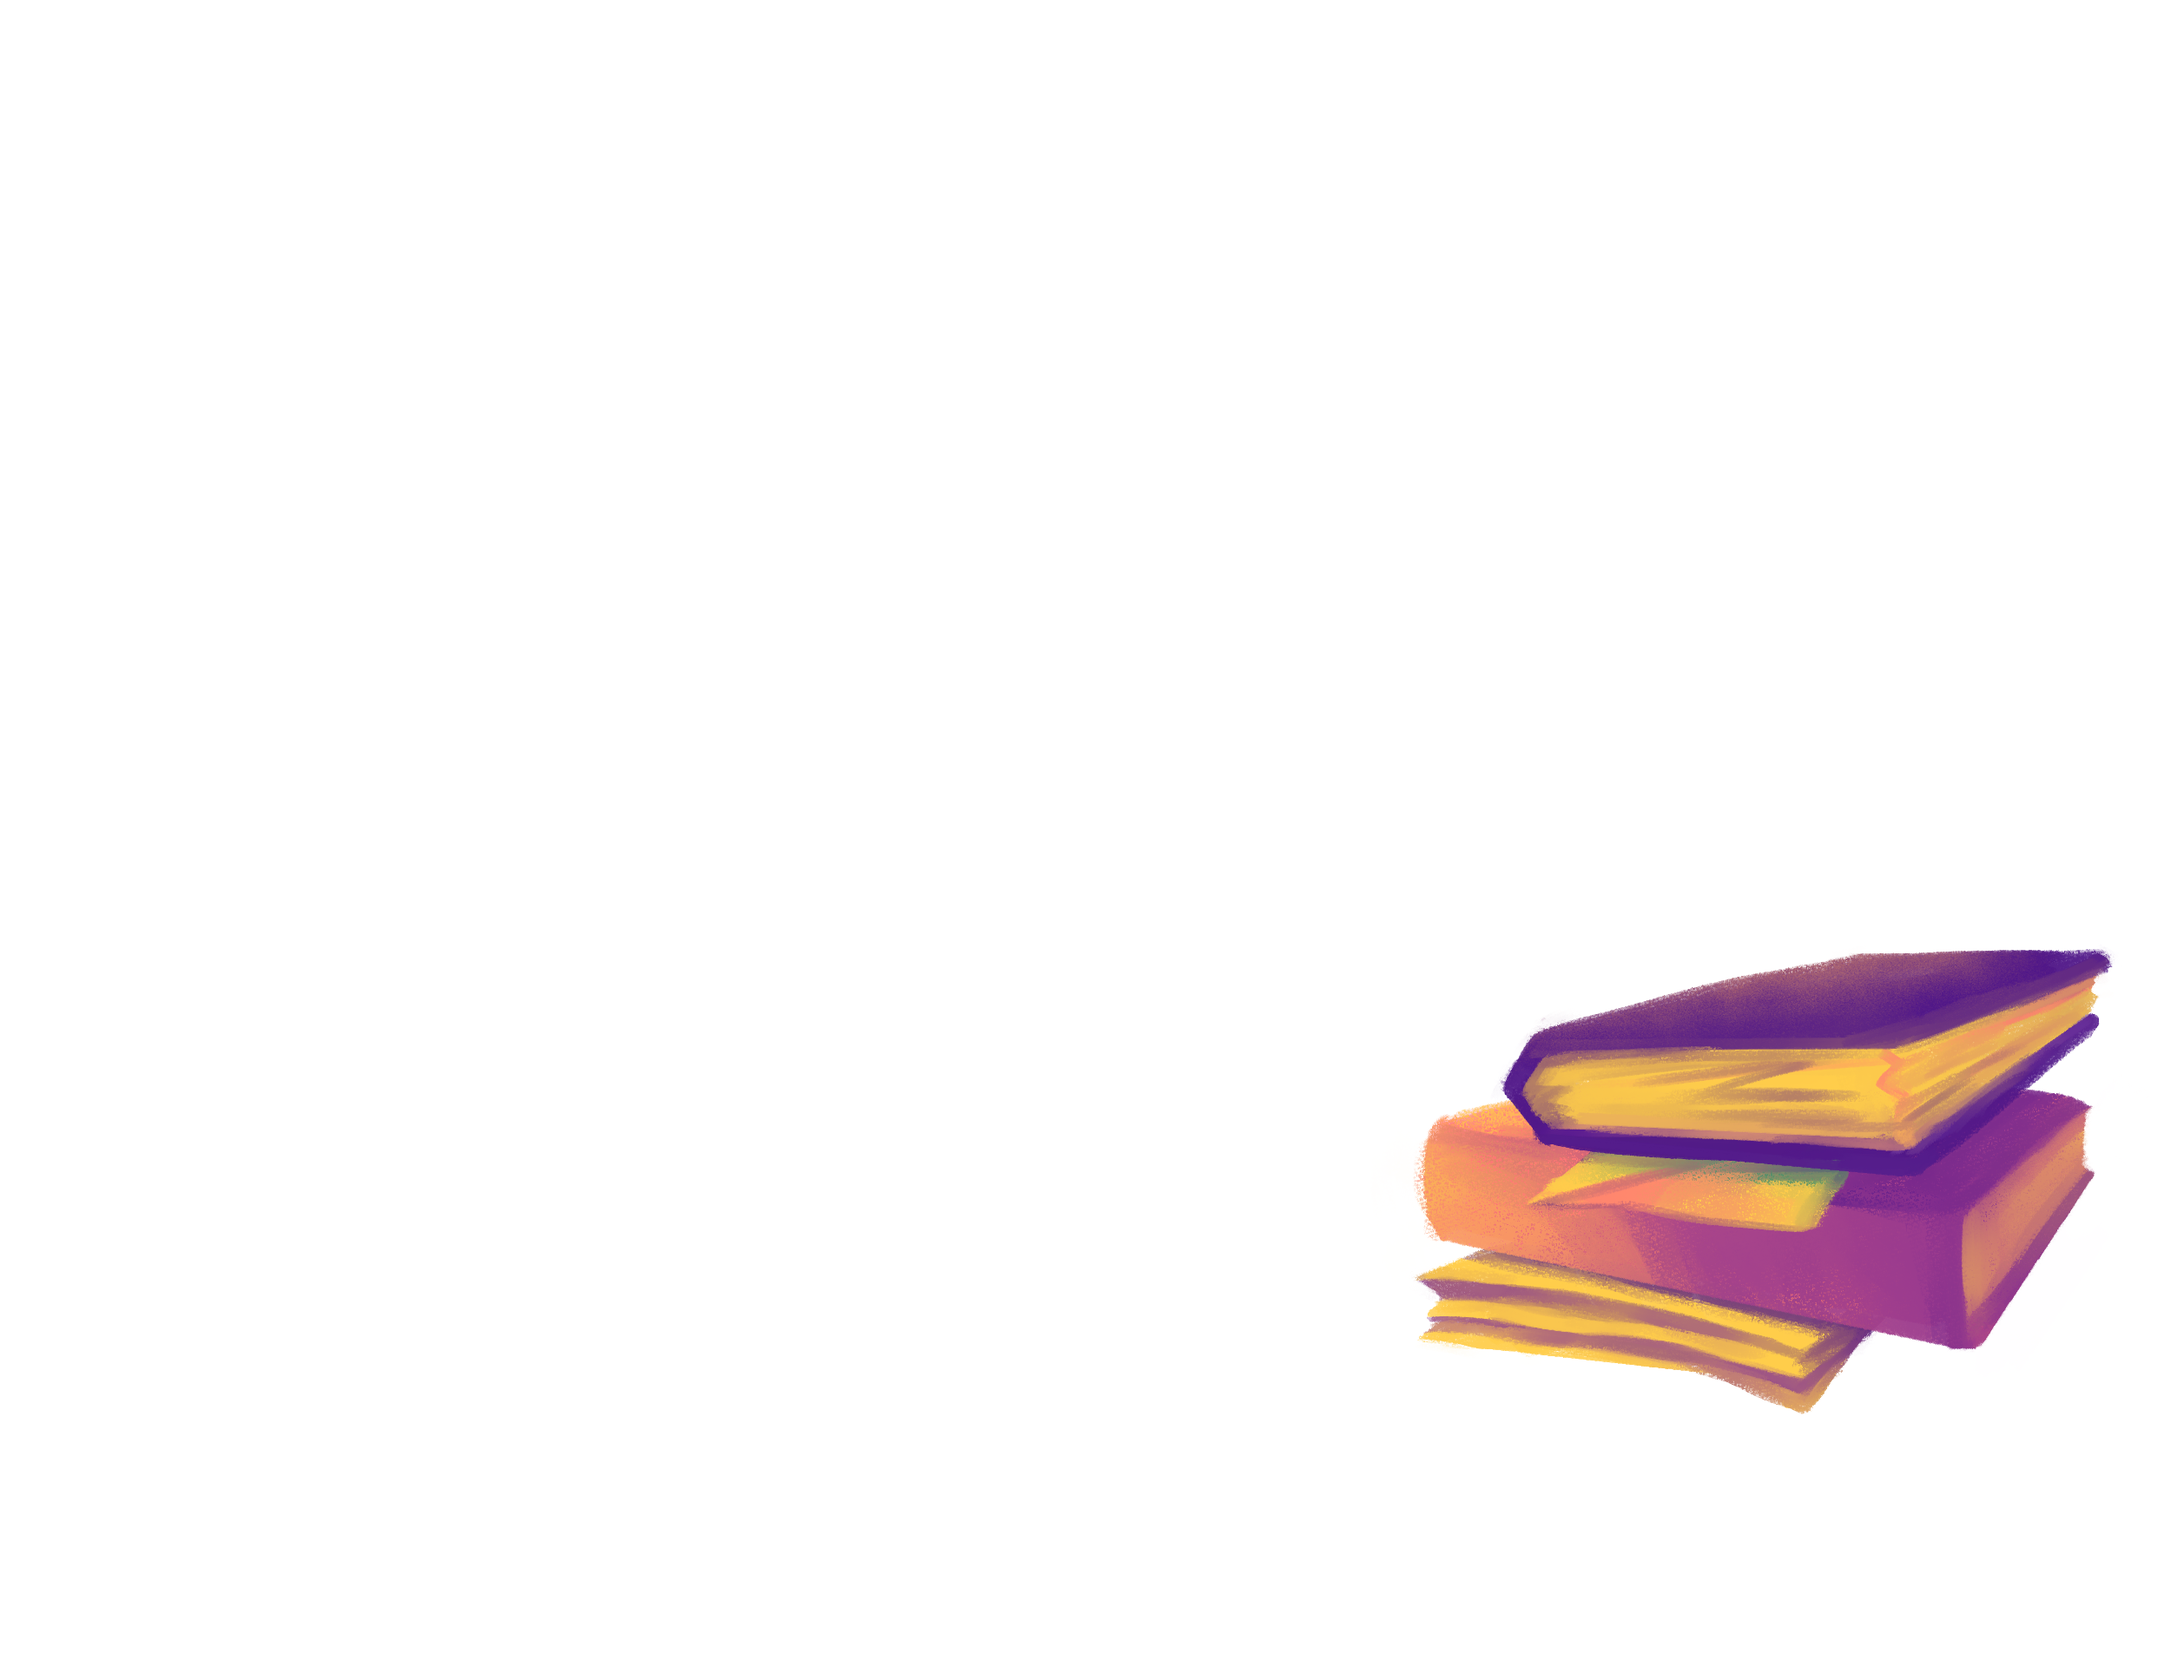
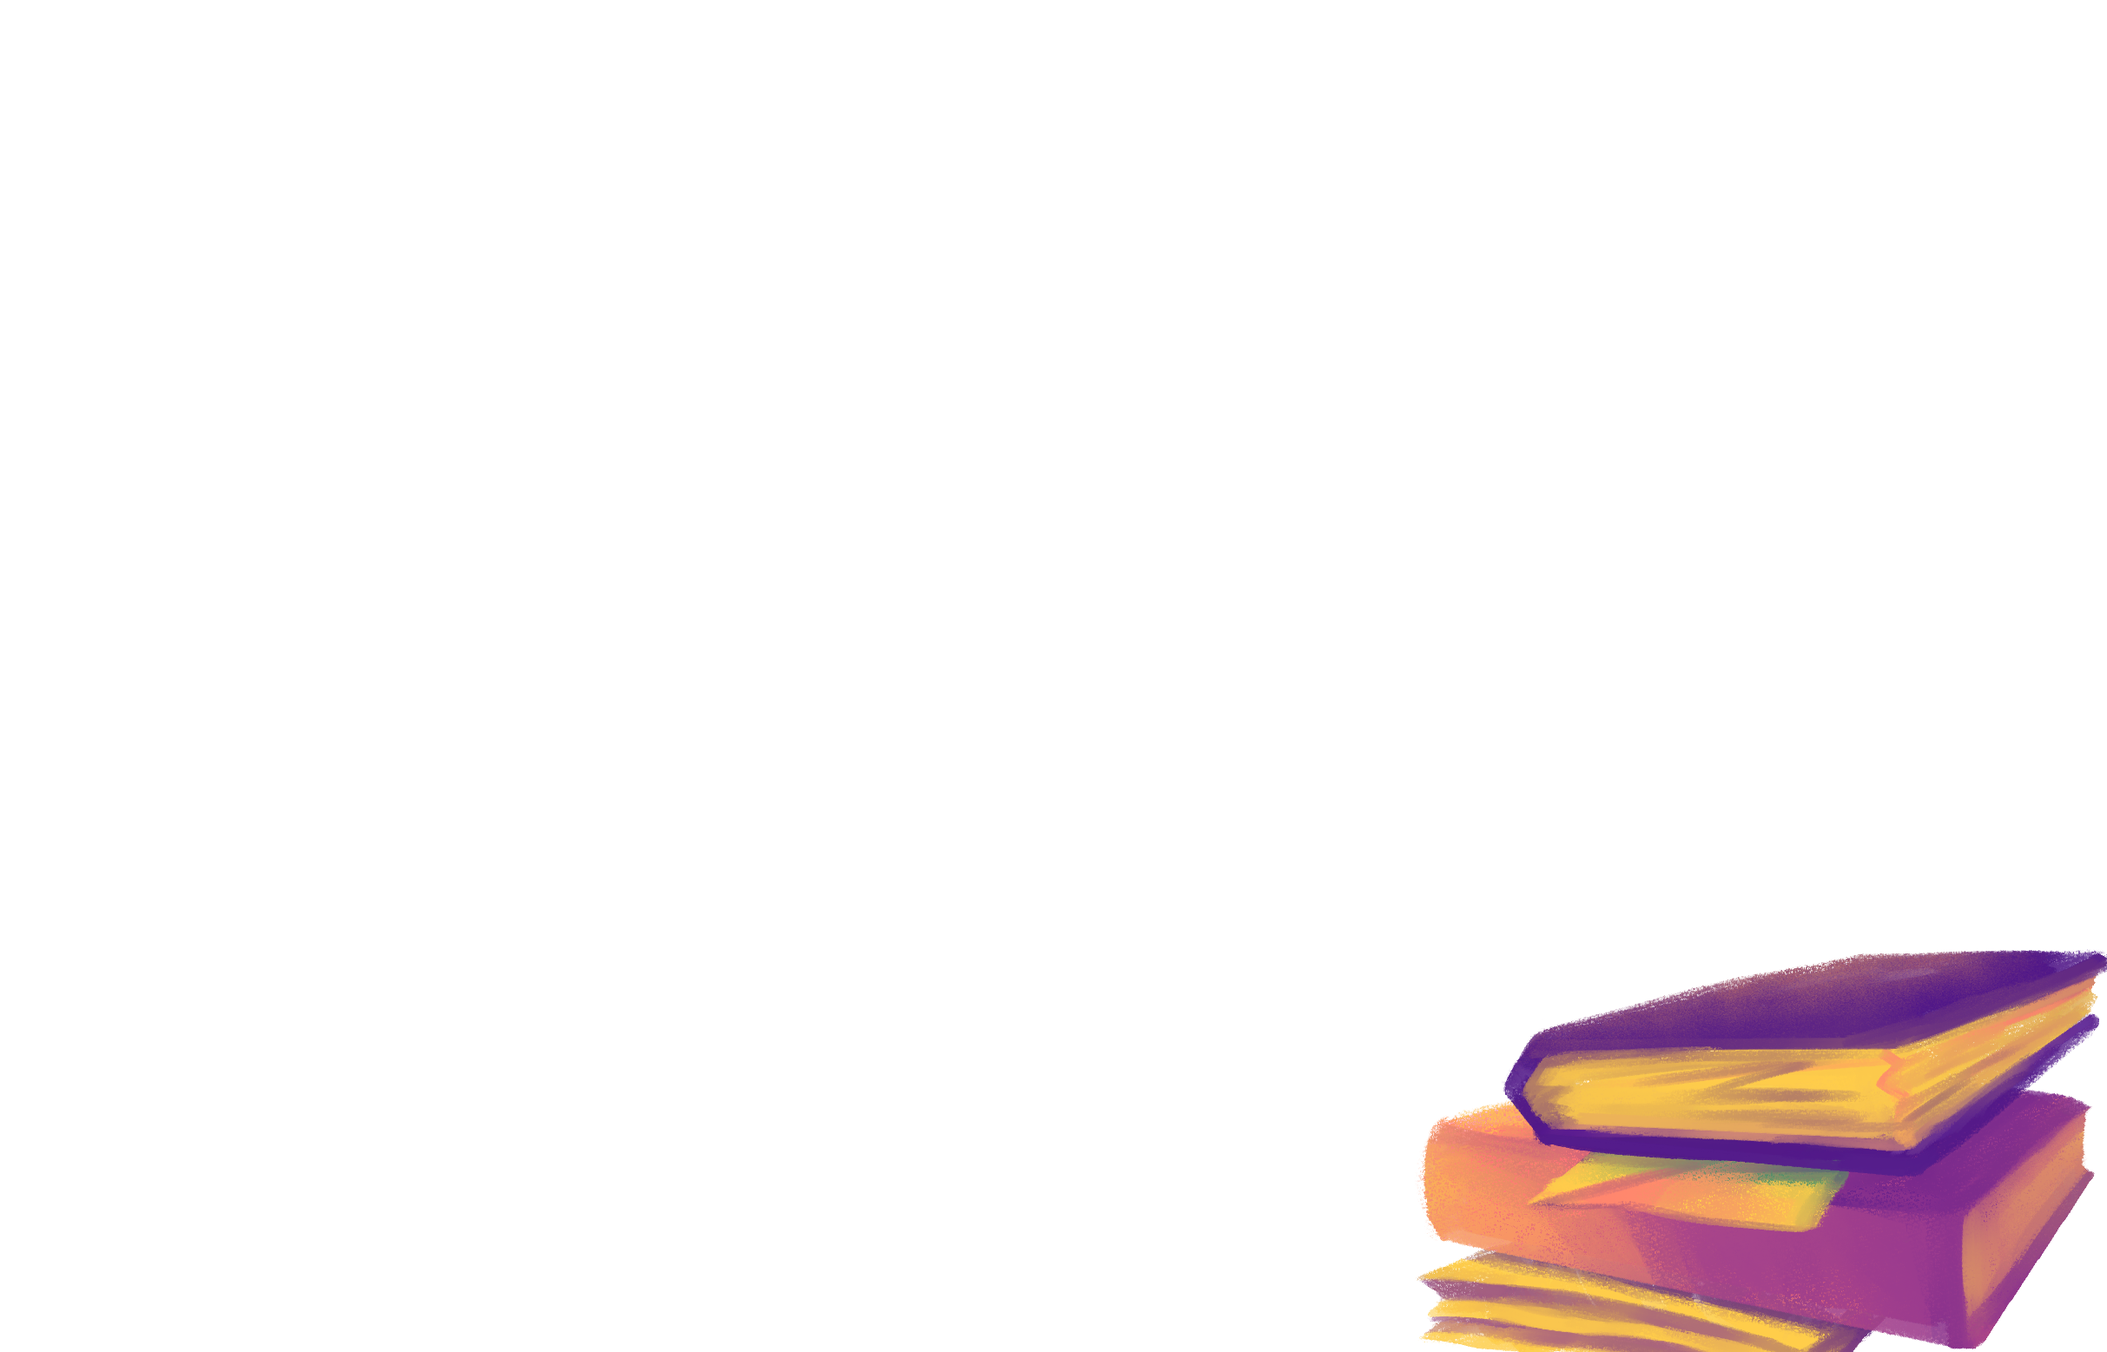
QR

Changed region(s): [[0.6492, 0.5549, 1.0, 1.0]]

diff --git a/Ultimagz_State/src/Pages/QRpage.css b/Ultimagz_State/src/Pages/QRpage.css
@@ -1,33 +1,17 @@
 .background {
   width: 100vw;
   height: 100vh;
-  position: relative;
+  display: flex;
+  justify-content: center; 
+  align-items: center; 
   background: url("../assets/QRpage/website_asset_bg.png");
   background-size: 100% 100%;
   background-repeat: no-repeat;
 }
-@media screen and (min-width: 400px) {
-  .PembungkusMainPage {
-    height: 300vh;
-  }
-}
-
-@media screen and (min-width: 768px) {
-  .PembungkusMainPage {
-    height: 180vh;
-  }
-}
-
-@media screen and (min-width: 1000px) {
-  .PembungkusMainPage {
-    height: 160vh;
-  }
-}
-
 
 .awan{
-  width: 120%;
-  height: 100%;
+  width: 110vw;
+  height: 110%;
   position: absolute;
   top: -32%;
   bottom: 0;
@@ -36,20 +20,123 @@
   z-index: 0;
 }
 
-.qr{
-  width: 100%;
-  height: 0%;
-  position: absolute;
-  bottom: 150%;
+.qr {
+  width: 120%; 
+  max-width: 40em; 
+  height: auto; 
   z-index: 1;
-} 
+}
 
-.ground{
+.groundDepan {
   width: 100vw;
-  height: 100%;
+  height: auto;
   position: absolute;
   bottom: 0;
   left: 0;
+  right: 0;
+  display: flex;
+  z-index: 1;
+  object-fit: cover;
+}
+
+.groundBlkg {
+  width: 100vw;
+  height: auto;
+  position: absolute;
+  bottom: 0;
+  left: 0;
+  right: 0;
   display: flex;
   z-index: 0;
+  object-fit: cover;
 }
+
+.Tas {
+  width: 90vw;
+  height: auto;
+  position: absolute;
+  bottom: 0;
+  left: 0;
+  right: 0;
+  display: flex;
+  z-index: 1;
+}
+
+.Book {
+  width: 90vw;
+  height: auto;
+  position: absolute;
+  bottom: 0;
+  right: 0;
+  display: flex;
+  z-index: 1;
+}
+
+@media (max-width: 450px) {
+  .qr {
+    width: 20em;
+    margin-top: 20em;
+  }
+
+  .groundDepan {
+    width: 100vw;
+    height: 100vh;
+  }
+
+  .groundBlkg {
+    width: 100vw;
+    height: 100vh;
+  }
+
+  .Tas {
+    width: 100vw;
+    height: auto;
+    position: absolute;
+    bottom: 0;
+    left: 0;
+    right: 0;
+    display: flex;
+    z-index: 1;
+  }
+
+  .awan{
+    width: 28.5em;
+  }
+}
+
+@media (max-width: 395px) {
+  .qr {
+    width: 20em;
+    margin-top: 12em;
+  }
+
+  .groundDepan {
+    width: 100vw;
+    height: 100vh;
+  }
+
+  .groundBlkg {
+    width: 100vw;
+    height: 100vh;
+  }
+
+  .Tas {
+    width: 100vw;
+    height: auto;
+    position: absolute;
+    bottom: 0;
+    left: 0;
+    right: 0;
+    display: flex;
+    z-index: 1;
+  }
+
+  .awan{
+    width: 24.5em;
+  }
+}
+
+
+
+
+

diff --git a/Ultimagz_State/src/Pages/QRpage.jsx b/Ultimagz_State/src/Pages/QRpage.jsx
@@ -2,7 +2,10 @@ import React from "react";
 import "./QRpage.css";
 import bingkai from "../assets/QRpage/bingkai.png";
 import awan from "../assets/QRpage/campaign_front_asset_clouds.png";
-import ground from "../assets/QRpage/ground.png";
+import groundBlkg from "../assets/QRpage/campaign_front_asset_ground_blkg.png";
+import groundDepan from "../assets/QRpage/campaign_front_asset_ground_depan.png";
+import Tas from "../assets/QRpage/campaign_front_asset_tas_ransel.png";
+import Book from "../assets/QRpage/campaign_front_asset_books.png"
 function QRpage() {
   return (
     <div className="background">
@@ -12,8 +15,17 @@ function QRpage() {
       <div className="awan">
         <img src={awan} alt="awan" />
       </div>
-      <div className="ground">
-        <img src={ground} alt="ground" />
+      <div className="groundDepan">
+        <img src={groundDepan} alt="ground" />
+      </div>
+      <div className="groundBlkg">
+        <img src={groundBlkg} alt="ground" />
+      </div>
+      <div className="Tas">
+        <img src={Tas} alt="ground" />
+      </div>
+      <div className="Book">
+        <img src={Book} alt="ground" />
       </div>
     </div>
   );
